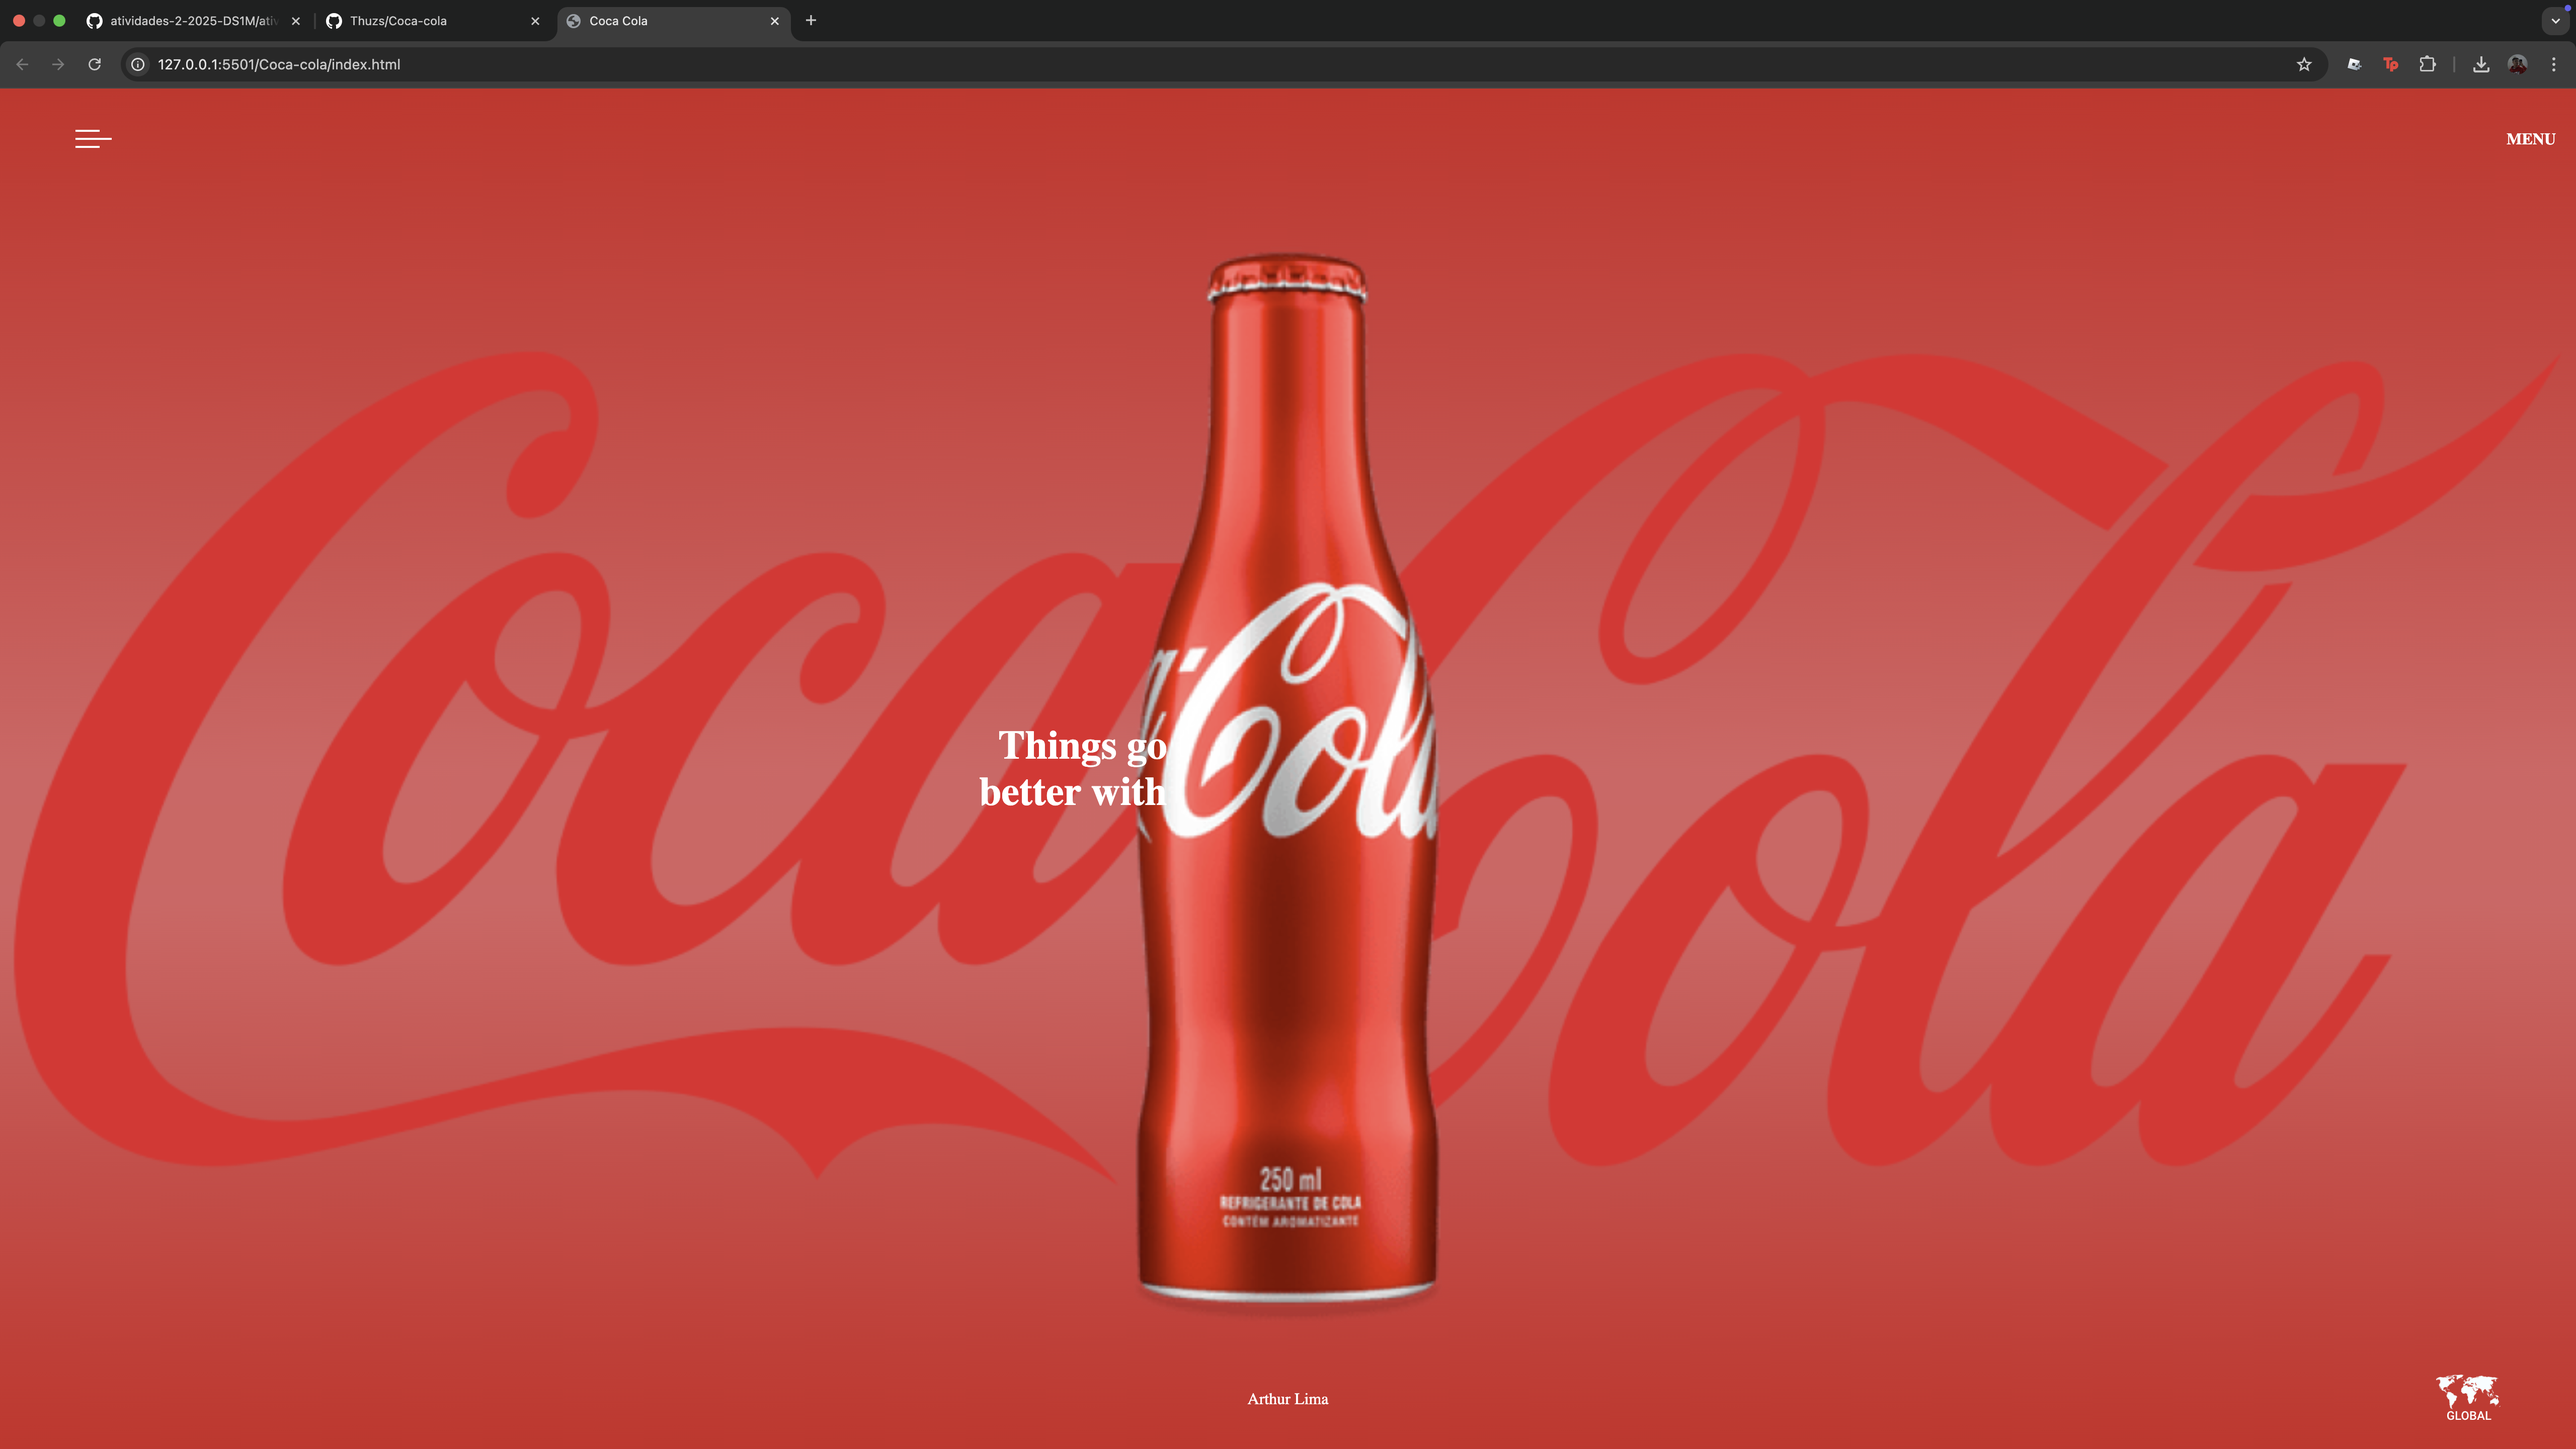
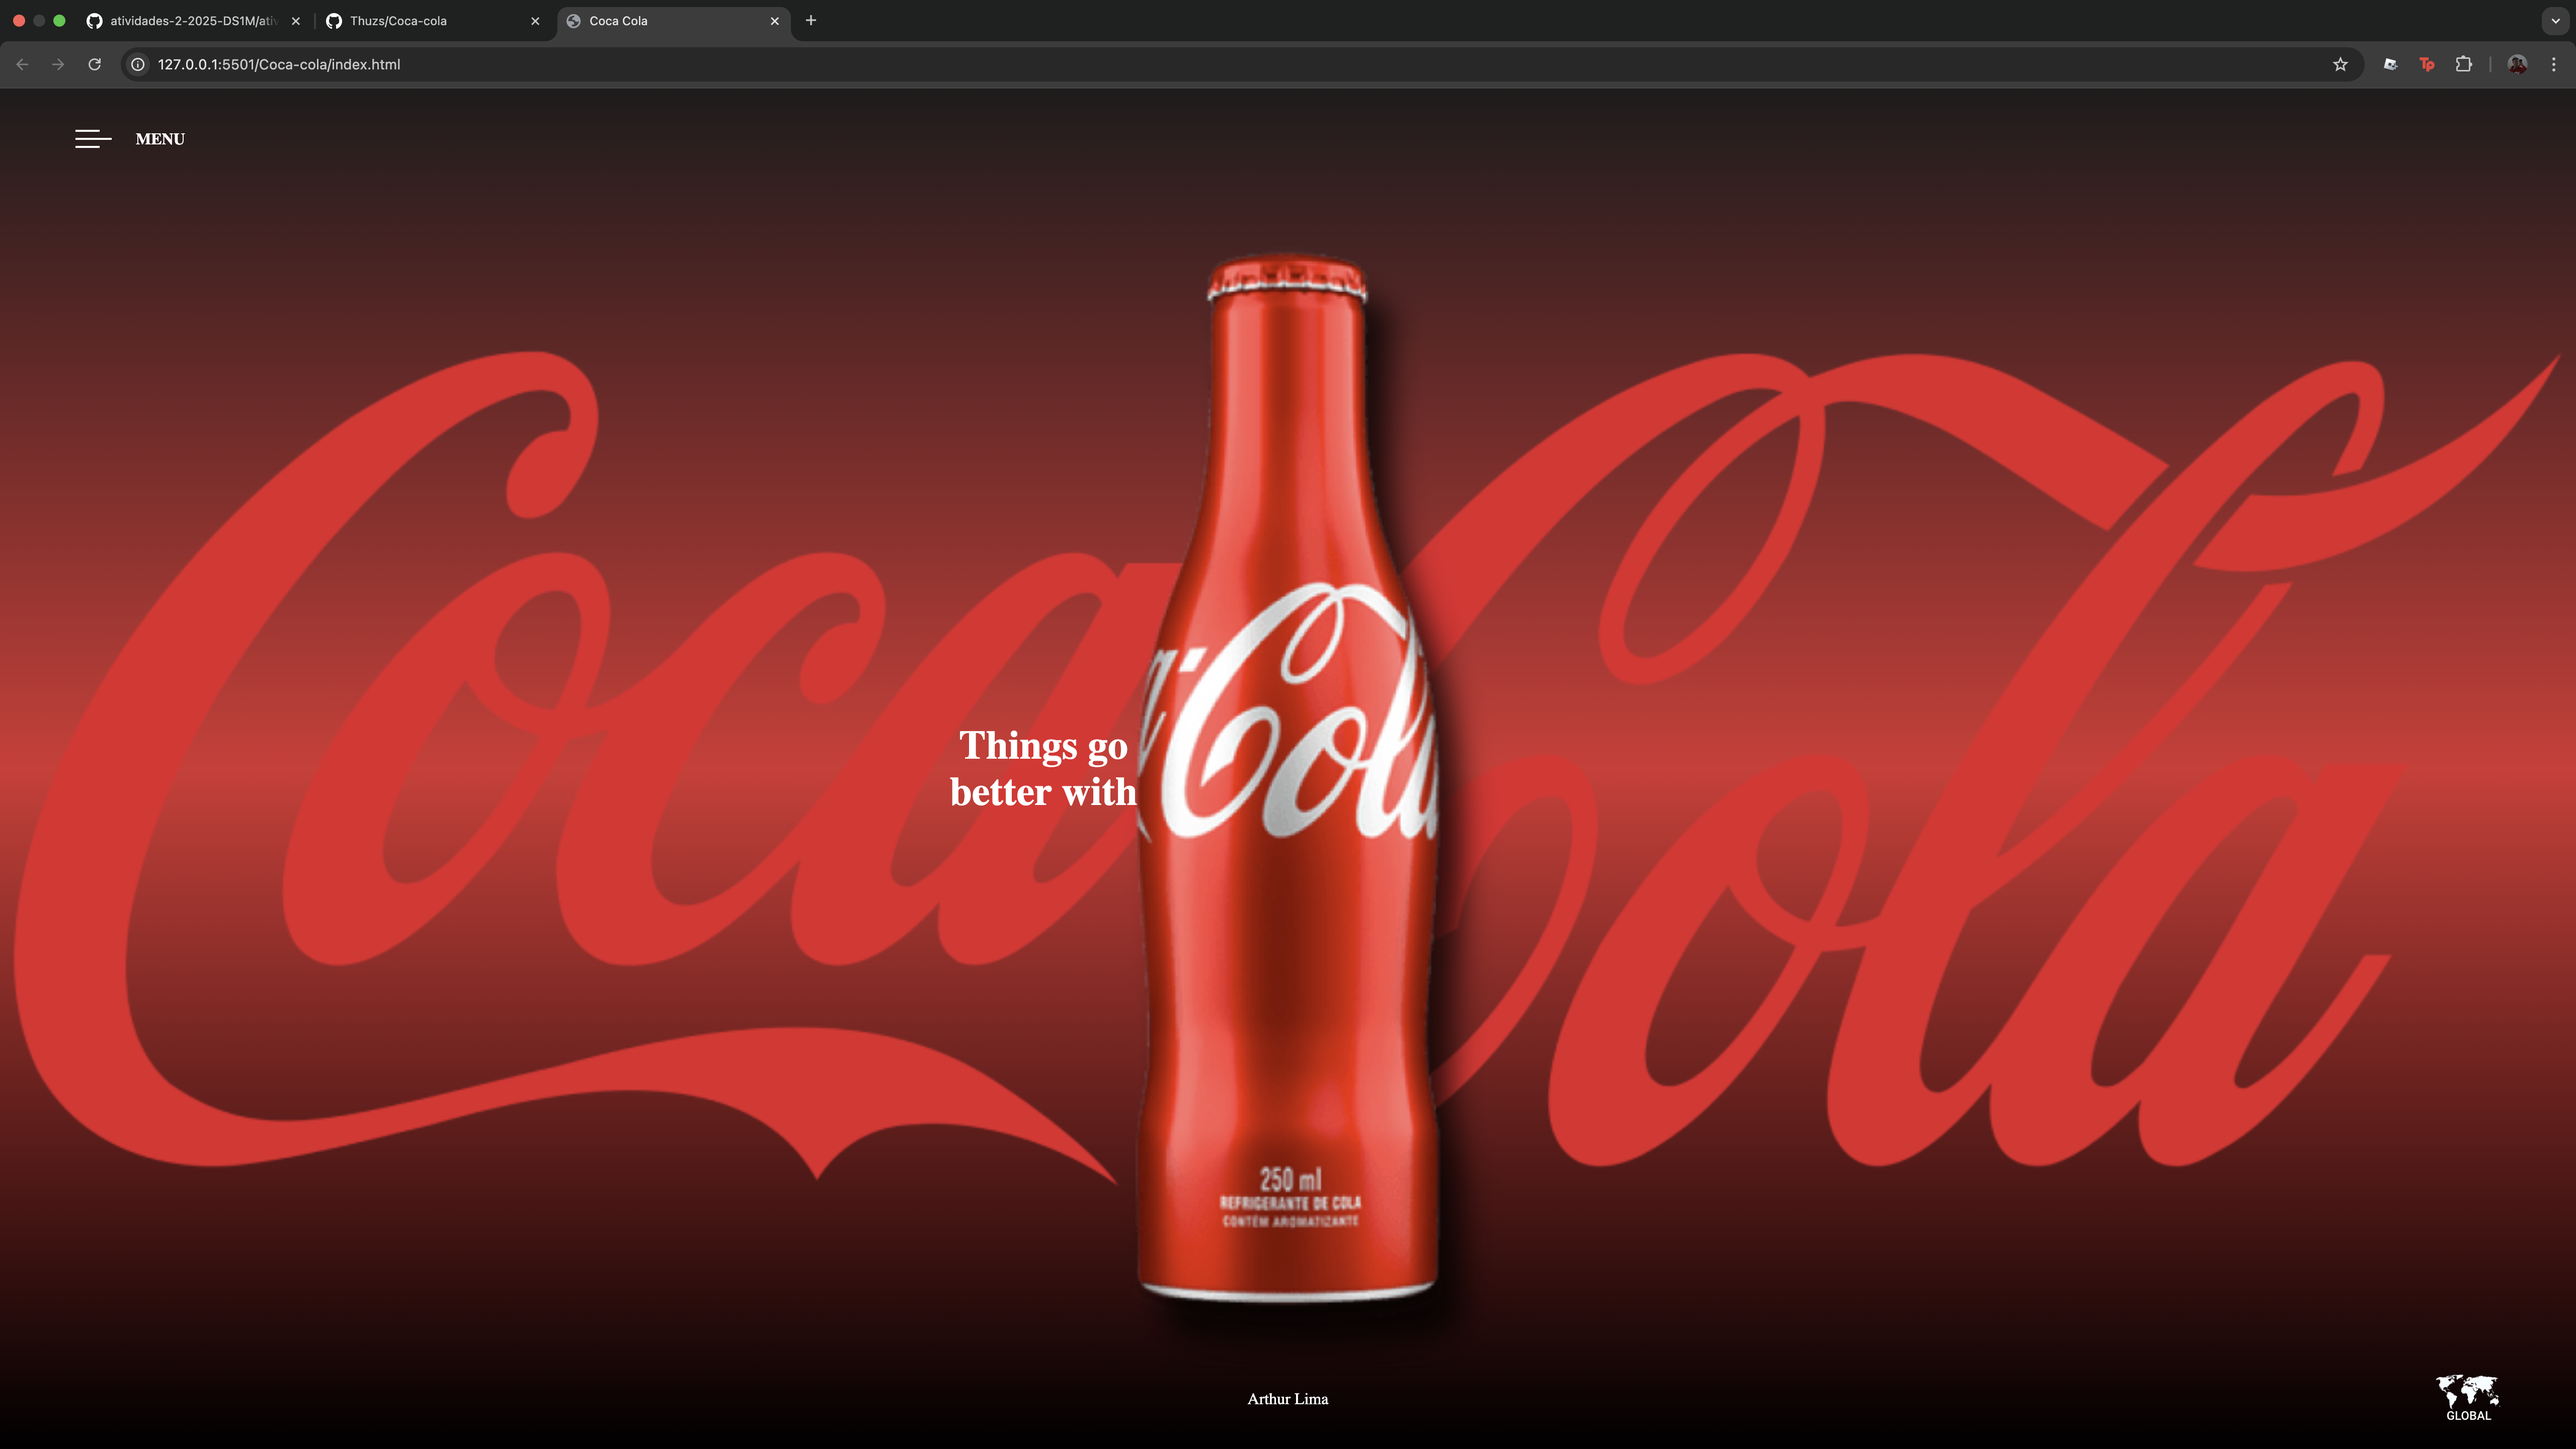
finalizei

diff --git a/style.css b/style.css
@@ -6,7 +6,7 @@
 body {
     width: 100vw;
     height: 100vh;
-    background: linear-gradient(#CF2425,#DA6062 50%, #DA6062 60%, #CF2425 );
+    background: linear-gradient(rgb(30, 28, 28),#d82f32 50%, black 100%, #DA6062 , #CF2425 );
     display: flex;
     flex-direction: column;
 }
@@ -17,7 +17,7 @@ header, footer {
     display: flex;
     align-items: center;
     justify-content: space-between;
-    padding: 0 20px;
+    padding: 0 100vw;
 }
 
 main {
@@ -32,7 +32,7 @@ header {
     display: flex;
     align-items: center;
     gap: 24px;
-    color: FFFFFF;
+    color: #FFFFFF;
     padding-left: 75px;
 }
 
@@ -56,15 +56,22 @@ main {
     right: 0;
     bottom: 0;
     z-index: -1;
+    
+}
+
+.content-image {
+    height: 85vh;
+    filter: drop-shadow(25px 40px 15px rgba(0, 0, 0, 0.769) );
 }
 
 .content-text {
     position: absolute;
     color: #ffffff;
     font-size: 2.5rem;
-    width: 240px;
+    width: 230px;
     transform: translateX(-100%);
-    text-align: end;
+    text-align: center;
+    padding-right: 1vw;
 }
 
 .content-image {
